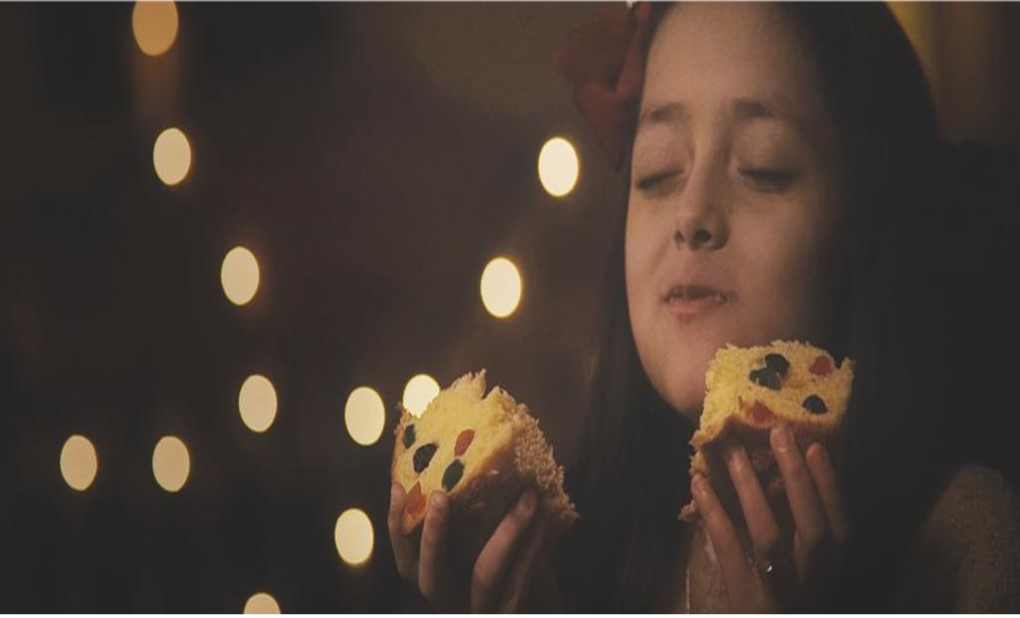
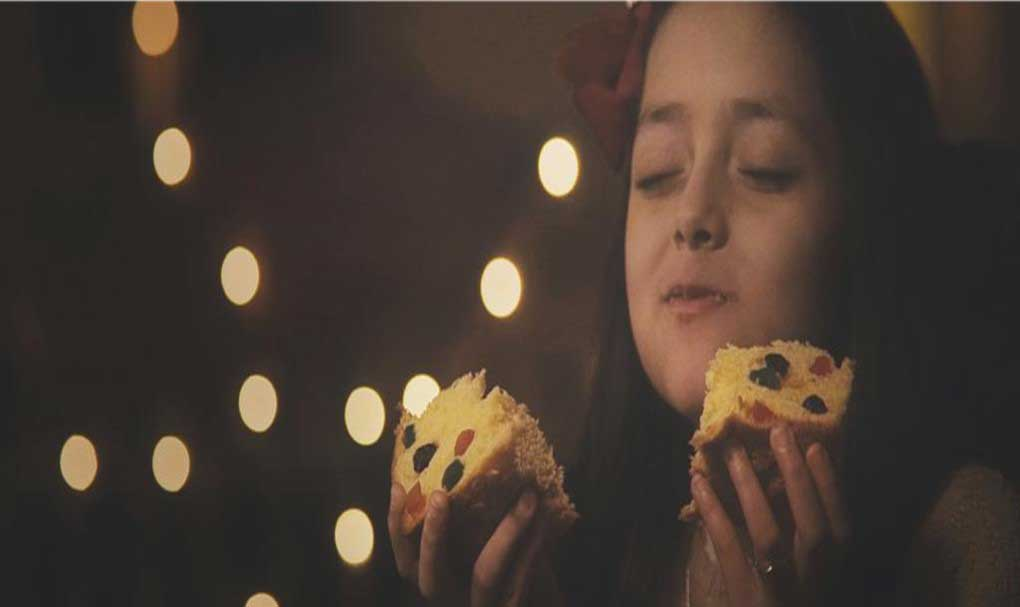
optimizaron las imagenes

diff --git a/index.html b/index.html
@@ -102,15 +102,15 @@
           <!-- Responsive Grid. Four columns on tablets, laptops and desktops. Will stack on mobile devices/small screens (100% width) -->
           <div class="w3-row-padding w3-center">
             <div class="w3-col m3">
-              <img src="img/Imagen1.png"  onclick="onClick(this)" class="w3-hover-opacity">
+              <img src="img/Imagen1.jpg"  onclick="onClick(this)" class="w3-hover-opacity">
             </div>
 
             <div class="w3-col m3">
-              <img src="img/Imagen2.png" s onclick="onClick(this)" class="w3-hover-opacity">
+              <img src="img/Imagen2.jpg" s onclick="onClick(this)" class="w3-hover-opacity">
             </div>
 
             <div class="w3-col m3">
-              <img src="img/Imagen3.png"  onclick="onClick(this)" class="w3-hover-opacity">
+              <img src="img/Imagen3.jpg"  onclick="onClick(this)" class="w3-hover-opacity">
             </div>
 
             <div class="w3-col m3">
@@ -128,11 +128,11 @@
             </div>
 
             <div class="w3-col m3">
-              <img src="img/Imagen7.png"  onclick="onClick(this)" class="w3-hover-opacity">
+              <img src="img/Imagen7.jpg"  onclick="onClick(this)" class="w3-hover-opacity">
             </div>
 
             <div class="w3-col m3">
-              <img src="img/Imagen8.png"  onclick="onClick(this)" class="w3-hover-opacity" >
+              <img src="img/Imagen8.jpg"  onclick="onClick(this)" class="w3-hover-opacity" >
             </div>
           </div>
           <div class="w3-center">     

diff --git a/styles/style_index.css b/styles/style_index.css
@@ -34,13 +34,13 @@ body, html {
 
 /* Second image (Portfolio) */
 .bgimg-2 {
-  background-image: url(../img/la%20punta.jpg);
+  background-image: url(../img/la-punta.jpg);
   min-height: 400px;
 }
 
 /* Third image (Contact) */
 .bgimg-3 {
-  background-image: url(../img/plaza%20mayor.jpg);
+  background-image: url(../img/plaza-mayor.jpg);
   min-height: 400px;
 }
 
